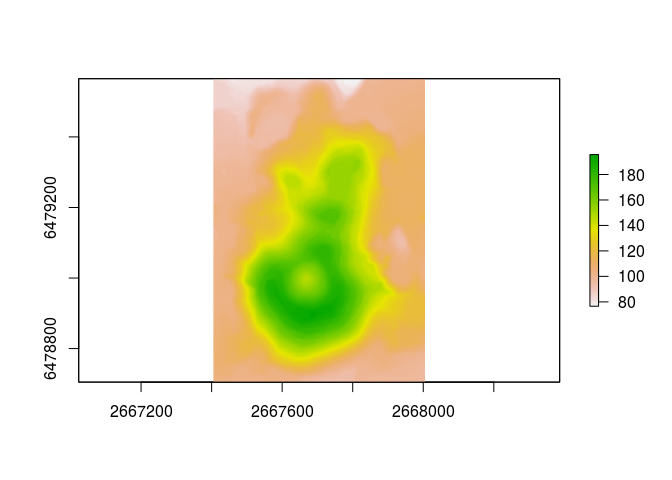
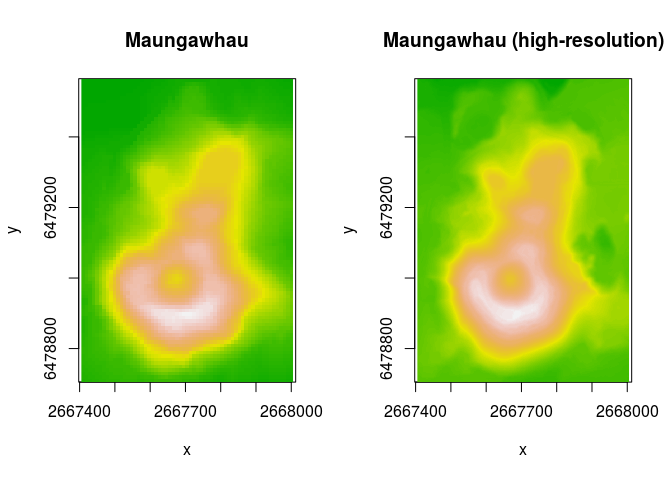
Populated README

diff --git a/README.md b/README.md
@@ -6,8 +6,9 @@
 <!-- badges: start -->
 <!-- badges: end -->
 
-The `hillshader` package is a wrapper around `rayshader` to create
-hillshade relief maps using ray-tracing.
+The `hillshader` package is a wrapper around the `rayshader` and
+`raster` packages to create hillshade relief maps using ray-tracing, and
+write them to (spatial) files.
 
 ## Installation
 
@@ -20,7 +21,12 @@ remotes::install_github("pierreroudier/hillshader")
 
 ## First steps
 
+Below is a quick tutorial of the `hillshader` capabilities:
+
 ### The `hillshader` function
+
+The `hillshader` function is the main function of that package, and
+allows to create a hillshade map as a `RasterLayer`:
 
 ``` r
 library(raster)
@@ -30,20 +36,40 @@ library(rayshader)
 library(hillshader)
 ```
 
+Note that the `hillshader` package includes the `maungawhau` and
+`maungawhau_hr` datasets. These are geo-referenced, raster datasets.
+`maungawhau` corresponds to the well-known `volcano` dataset. It is a
+87 × 61 elevation matrix for Maungawhau, one of the circa 80 volcanoes
+in the Auckland volcano filed, in Aotearoa/New Zealand. The
+`maungawhau_hr` dataset is a “high-resolution” version of that dataset,
+and is a 1 m resolution, 860 × 600 elevation matrix derived from a LiDAR
+dataset collected by LINZ.
+
 ``` r
-plot(maungawhau_hr)
+layout(matrix(c(1,2), nrow = 1, ncol = 2))
+image(maungawhau, asp = 1, main = "Maungawhau", col = terrain.colors(100))
+image(maungawhau_hr, asp = 1, main = "Maungawhau (high-resolution)", col = terrain.colors(100))
 ```
 
 <img src="man/figures/README-mwh-1.png" width="100%" />
 
+The `hillshader` function can be simply called on a elevation raster to
+generate a hillshade `RasterLayer`. By default, the shader used is
+`rayshader::ray_shade`, with its default values.
+
 ``` r
-hs <- hillshader(elevation = maungawhau_hr)
+hs <- hillshader(maungawhau_hr)
 plot_map(hs)
 ```
 
 <img src="man/figures/README-hillshader-1.png" width="100%" />
 
-### More shaders!
+### Add more shaders!
+
+The `hillshader` function accept a `shader` option, with is a list of
+the sucessive shader functions to apply to create the hillshade layer.
+The accepeted values must be `rayshader` shader functions (`ray_shade`,
+`ambient_shade`, `lamb_shade`), and the order is important.
 
 ``` r
 hs <- hillshader(
@@ -57,6 +83,9 @@ plot_map(hs)
 <img src="man/figures/README-hillshader2-1.png" width="100%" />
 
 ### Changing sun position
+
+The `hillshader` function uses the `rayshader` options defaults, but
+other values can be specify and passed as arguments:
 
 ``` r
 hs <- hillshader(
@@ -73,6 +102,10 @@ plot_map(hs)
 
 ### Saving to file
 
+If a `filename` is passed to `hillshader`, then the resulting hillshade
+layer is saved to file. This is a wrapper around `raster::writeRaster`,
+and options specific to the latter function can be used.
+
 ``` r
 hillshader(
   elevation = maungawhau_hr, 
@@ -88,20 +121,32 @@ hillshader(
 The `hillshader` package provides three functions that can be used
 within the `rayshader` pipelines:
 
--   `add_shadow_2d`,
--   `matrix_to_raster`,
--   `write_raster`
+-   `add_shadow_2d`: a function that multiplies a shadow map by another
+    shadow map, a corrected 2D version of `rayshader::add_shadow`,
+-   `matrix_to_raster`: a function that converts a matrix (typically
+    used by the `rayshader` functions) back to a `RasterLayer`, for
+    input into a GIS workflow,
+-   `write_raster`: a function that a hillshade matrix to a raster file
+    format.
 
 ``` r
+library(rayshader)
+library(hillshader)
+
+# Create elevation matrix
 el_mat <- raster_to_matrix(maungawhau_hr)
 
-el_mat %>% 
+el_mat %>%
+  # Create hillshade layer using 
+  # ray-tracing
   ray_shade %>%
+  # Add ambient shading
   add_shadow_2d(
     ambient_shade(
       heightmap = el_mat
     )
   ) %>% 
+  # Wirite to GIS file
   write_raster(
     elevation = maungawhau_hr,
     filename = "hillshade.tif"
